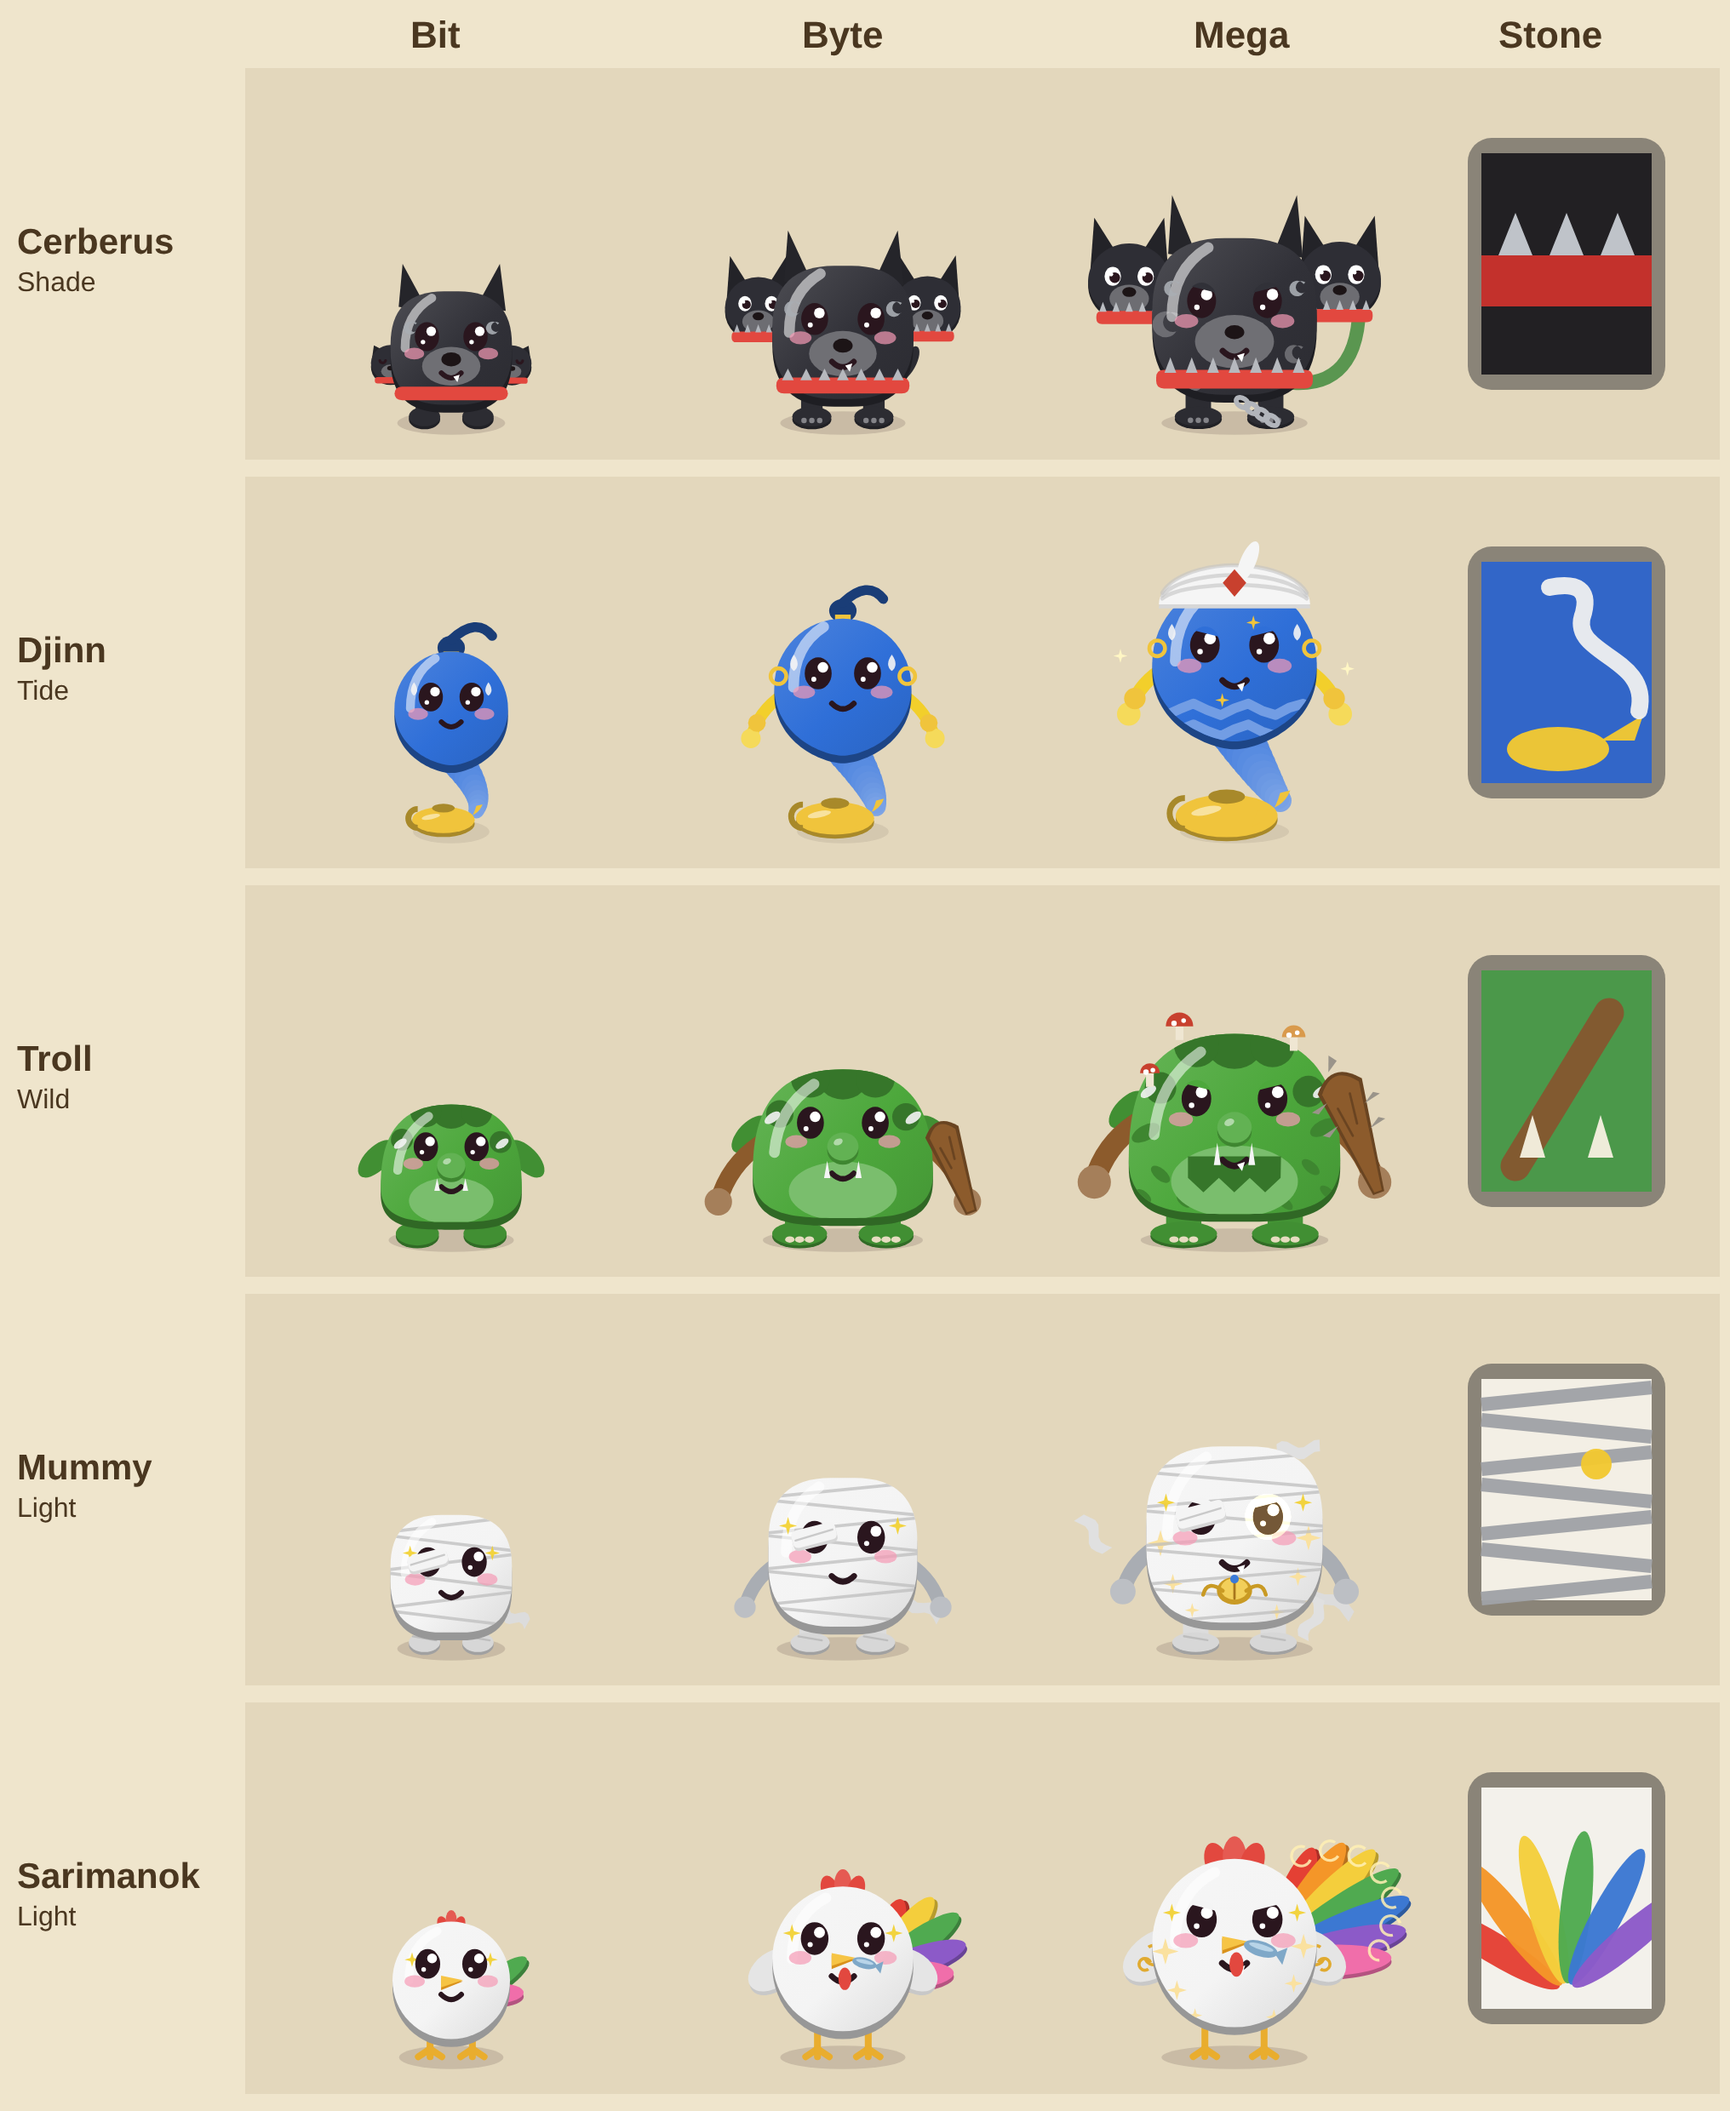
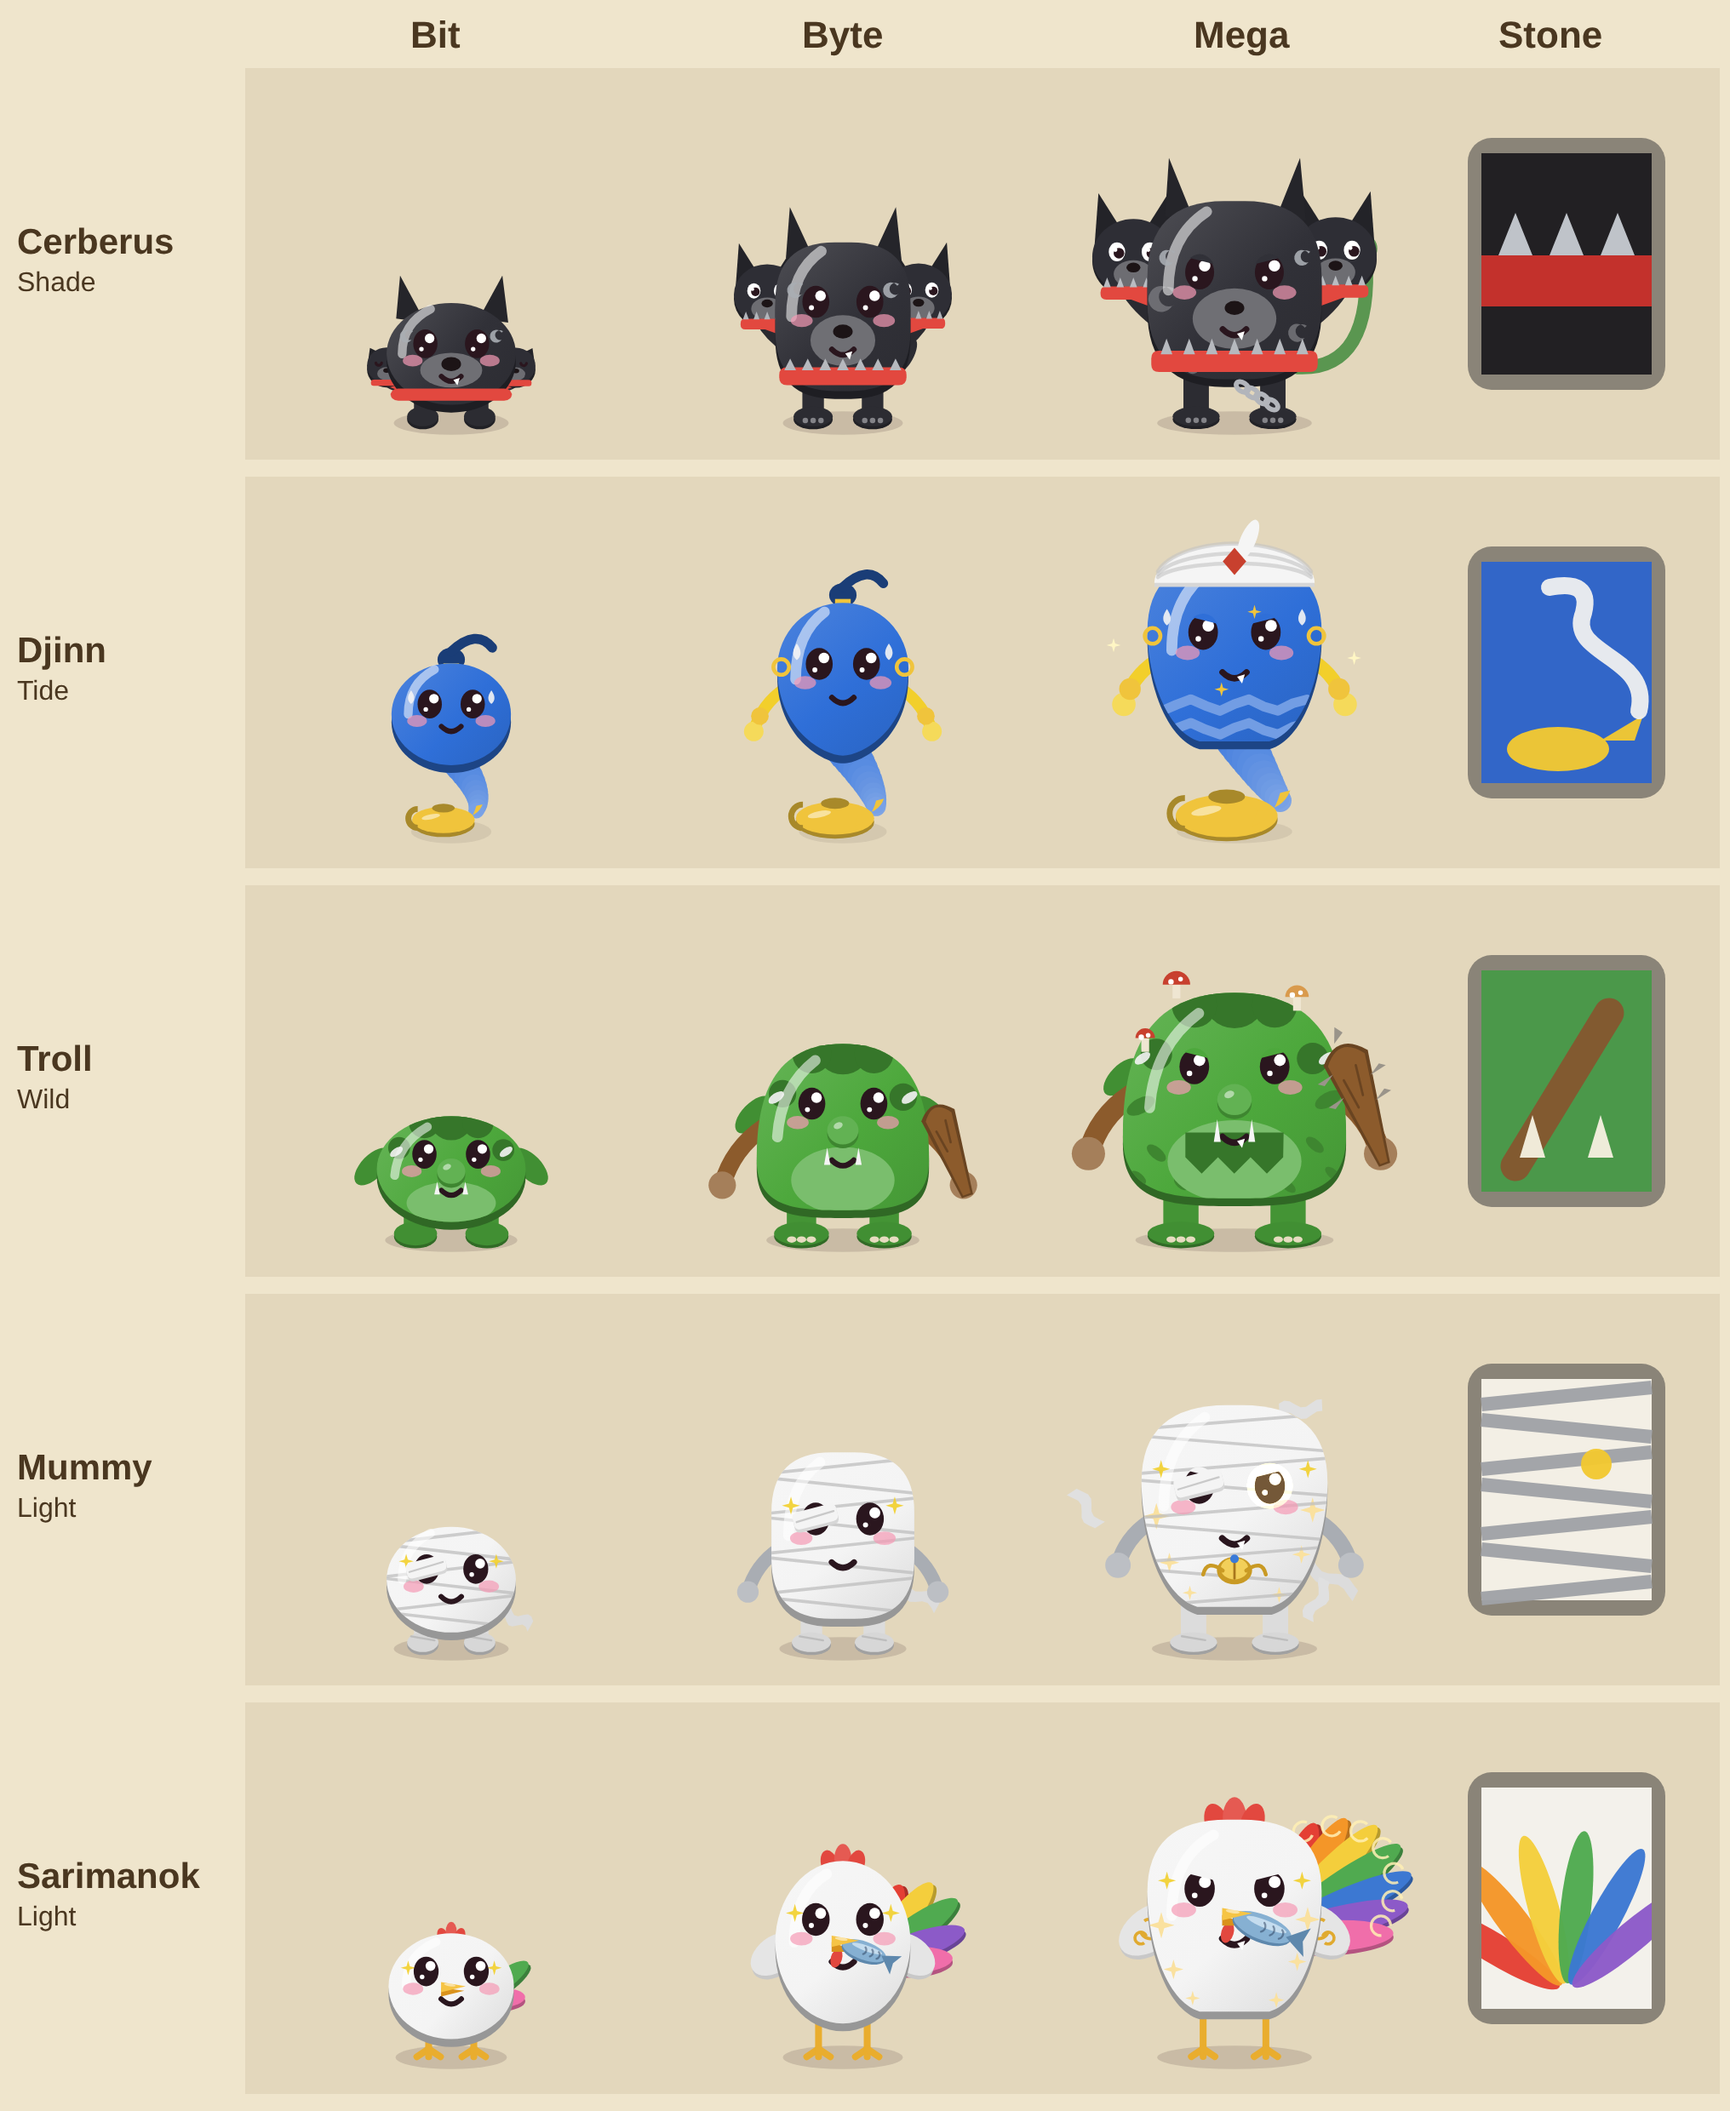
Give all 30 specials a growth in body shape, neck the Cerberus heads, and put Sarimanok's fish in its beak
Gid asked for better evolution looks on every special, with the body shape changing too:
a Bit is a round baby, a Byte is taller on longer legs, and a Mega is broad at the shoulders and
narrower at the base. A family whose own shape is its idea (Jack, Kraken, Naga, Hydra, Bakunawa,
Yeti, the round Tanuki, the four-legged ones, Diwata's bud) keeps that shape and still changes
proportion, and Salamander stays low. Cerberus's side heads sit on necks from its shoulders, and
Sarimanok's fish now hangs out of an open beak with its head between the jaws.

Sheets: docs/art/specials-group1.png to group4.png and specials-original10.png.

Claude-Session: https://claude.ai/code/session_01MQWzxVrGaM5SWzbnobBWB8

diff --git a/prototype/chibi.js b/prototype/chibi.js
@@ -1980,7 +1980,9 @@ const CHIBI = (() => {
           limb(c, tq, 7, [90, 150, 80], x.L.tail, x.t); c.fillStyle = 'rgb(90,150,80)'; c.beginPath(); c.ellipse(tq[4], tq[5] - 3, 6, 7, 0, 0, 7); c.fill(); c.fillStyle = '#fff'; c.beginPath(); c.arc(tq[4] - 2, tq[5] - 5, 1.6, 0, 7); c.arc(tq[4] + 2, tq[5] - 5, 1.6, 0, 7); c.fill();
           c.strokeStyle = '#d23a3a'; c.lineWidth = 1.4; c.beginPath(); c.moveTo(tq[4], tq[5] + 3); c.lineTo(tq[4], tq[5] + 7); c.lineTo(tq[4] - 2, tq[5] + 9); c.moveTo(tq[4], tq[5] + 7); c.lineTo(tq[4] + 2, tq[5] + 9); c.stroke(); }
         else { const tw = Math.sin(x.t / 200) * 0.3; c.save(); c.translate(g.cx + g.bw * 0.4, g.bot - 10); c.rotate(-0.8 + tw); c.fillStyle = rgb(dk(x.body, 0.1)); c.beginPath(); c.ellipse(9, 0, 10, 4, 0, 0, 7); c.fill(); c.restore(); }   // a wagging tail
-        const hr = by(S, 10, 17, 21), dx = g.bw * by(S, 0.5, 0.6, 0.64), dy = by(S, 0.62, 0.3, 0.26);   // the side heads
+        const hr = by(S, 10, 17, 21), dx = g.bw * by(S, 0.5, 0.56, 0.58), dy = by(S, 0.6, 0.34, 0.3);   // the side heads, each on a thick neck from the shoulder
+        for (const sd of [-1, 1]) { const hx = g.cx + sd * dx, hy = g.top + g.bh * dy; limb(c, [g.cx + sd * g.bw * 0.22, g.top + g.bh * 0.7, g.cx + sd * dx * 0.9, g.top + g.bh * (dy + 0.25), hx, hy + hr * 0.2], hr * 1.15, dk(x.body, 0.14), sd < 0 ? x.L.armL : x.L.armR, x.t);
+          c.fillStyle = rgb(x.parts); c.save(); c.translate(hx, hy + hr * 0.95); c.rotate(-sd * 0.35); roundBox(c, -hr * 0.62, -hr * 0.14, hr * 1.24, hr * 0.3, hr * 0.12); c.fill(); c.restore(); }
         for (const sd of [-1, 1]) this.dog(c, g.cx + sd * dx, g.top + g.bh * dy + Math.sin(x.t / 600 + sd) * 1.5, hr, dk(x.body, 0.06), red, stud, S !== 'Bit', look, x.t);
         for (const sd of [-1, 1]) { const fx = g.cx + sd * g.bw * 0.22, lift = Math.max(0, sd * x.walk) * 4; limb(c, [fx, g.bot - 8, fx, g.bot - 1 - lift / 2, fx, 180 - lift], by(S, 9, 11, 13), dk(x.body, 0.1), sd < 0 ? x.L.legL : x.L.legR, x.t);
           blob(c, fx, 182 - lift, by(S, 8, 10, 12), 5, dk(x.body, 0.1), sd < 0 ? x.L.legL : x.L.legR, x.t, 'foot'); x.feet.push([fx, 182 - lift, 8]);
@@ -2106,12 +2108,15 @@ const CHIBI = (() => {
       head: g => [g.cx, g.top - 6, g.bw * 0.42],
       face(c, g, x, look) { const S = g.stage, fi = faceTwo(c, g, x, look, { ey: 0.36, ex: 0.2, my: 0.62, s: by(S, 0.74, 0.82, 0.9) }), s = fi.s, y0 = g.top + g.bh * 0.46;
         if (x.back) return fi;
-        if (S !== 'Bit') { c.fillStyle = rgb(x.parts); c.beginPath(); c.ellipse(g.cx + 1, y0 + 16 * s, 4 * s, 7 * s, 0, 0, 7); c.fill(); }   // the wattle
-        c.fillStyle = '#d9921c'; c.beginPath(); c.moveTo(g.cx - 7 * s, y0 + 1); c.lineTo(g.cx + 8 * s, y0 + 4 * s); c.lineTo(g.cx - 7 * s, y0 + 10 * s); c.closePath(); c.fill();   // the beak
-        c.fillStyle = '#f6c445'; c.beginPath(); c.moveTo(g.cx - 7 * s, y0); c.lineTo(g.cx + 8 * s, y0 + 3 * s); c.lineTo(g.cx - 7 * s, y0 + 8 * s); c.closePath(); c.fill();
-        if (S !== 'Bit') { const fx = g.cx + 8 * s, fy = y0 + 5 * s, fl = by(S, 0, 14, 18) * s, sw = Math.sin(x.t / 150) * 0.15;   // a fish in its beak
-          c.save(); c.translate(fx, fy); c.rotate(0.15 + sw); c.fillStyle = '#7fa8c8'; c.beginPath(); c.ellipse(fl * 0.4, 0, fl * 0.55, fl * 0.24, 0, 0, 7); c.fill();
-          c.beginPath(); c.moveTo(fl * 0.85, 0); c.lineTo(fl * 1.2, -fl * 0.28); c.lineTo(fl * 1.2, fl * 0.28); c.closePath(); c.fill(); c.fillStyle = '#b8d4e8'; c.beginPath(); c.ellipse(fl * 0.4, -fl * 0.06, fl * 0.4, fl * 0.09, 0, 0, 7); c.fill(); c.restore(); }
+        if (S !== 'Bit') { c.fillStyle = rgb(x.parts); c.beginPath(); c.ellipse(g.cx - 4 * s, y0 + 14 * s, 3.5 * s, 6 * s, 0.3, 0, 7); c.fill(); }   // the wattle
+        const fish = S !== 'Bit', gape = fish ? 4 * s : 0;
+        c.fillStyle = '#d9921c'; c.beginPath(); c.moveTo(g.cx - 7 * s, y0 + 4 * s); c.lineTo(g.cx + 9 * s, y0 + 6 * s + gape); c.lineTo(g.cx - 7 * s, y0 + 10 * s); c.closePath(); c.fill();   // the lower beak, dropped open when it holds a fish
+        if (fish) { const fl = by(S, 0, 26, 32) * s, sw = Math.sin(x.t / 150) * 0.1;   // the fish: its head between the jaws, its body and tail hanging out and flapping
+          c.save(); c.translate(g.cx + 1 * s, y0 + 5 * s); c.rotate(0.28 + sw); c.fillStyle = '#5e88ad'; c.beginPath(); c.ellipse(fl * 0.5, 1, fl * 0.55, fl * 0.24, 0, 0, 7); c.fill(); c.fillStyle = '#86b0d2'; c.beginPath(); c.ellipse(fl * 0.5, 0, fl * 0.55, fl * 0.22, 0, 0, 7); c.fill();
+          c.fillStyle = '#5e88ad'; c.save(); c.translate(fl * 1.02, 0); c.rotate(Math.sin(x.t / 120) * 0.35); c.beginPath(); c.moveTo(-2, 0); c.lineTo(fl * 0.32, -fl * 0.26); c.lineTo(fl * 0.24, 0); c.lineTo(fl * 0.32, fl * 0.26); c.closePath(); c.fill(); c.restore();
+          c.fillStyle = '#c4dcee'; c.beginPath(); c.ellipse(fl * 0.55, -fl * 0.07, fl * 0.38, fl * 0.07, 0, 0, 7); c.fill(); c.strokeStyle = 'rgba(40,60,90,.5)'; c.lineWidth = 1; for (const k of [0.45, 0.62, 0.79]) { c.beginPath(); c.arc(fl * k, 0, fl * 0.1, -1, 1); c.stroke(); } c.restore(); }
+        c.fillStyle = '#f6c445'; c.beginPath(); c.moveTo(g.cx - 7 * s, y0); c.lineTo(g.cx + 10 * s, y0 + 3 * s); c.lineTo(g.cx - 7 * s, y0 + 7 * s); c.closePath(); c.fill();   // the upper beak, over the fish
+        c.fillStyle = 'rgba(255,255,255,.5)'; c.beginPath(); c.ellipse(g.cx - 1 * s, y0 + 2 * s, 4 * s, 1 * s, 0.15, 0, 7); c.fill();
         return fi; }
     },
 
@@ -2277,6 +2282,23 @@ const CHIBI = (() => {
 
   /* ---------- fusion hybrids: the first family's body on the second family's legs ----------
      Chomp is drawn by its own function, so a Chomp body or Chomp feet use this stand-in built from STAGE. */
+  /* ---------- how the specials grow (Gid, 16 Nov 2026): a Bit is a round baby, a Byte is taller on longer legs,
+     and a Mega takes a grown-up build, broad at the shoulders and narrower at the base. A family whose own shape is
+     the point (a pumpkin, a mantle, a hood, coils, a round belly, four legs) keeps that shape and still changes proportion ---------- */
+  const EVO_K = { Bit: [1.06, 0.9], Byte: [0.96, 1.12], Mega: [1.06, 1.14] }, EVO_LEG = { Bit: 0, Byte: 4, Mega: 8 };
+  function evoRound(c, g) { c.beginPath(); c.ellipse(g.cx, g.top + g.bh / 2, g.bw / 2, g.bh / 2, 0, 0, 7); }
+  function evoHero(c, g) { const L = g.left, R = g.left + g.bw, T = g.top, B = g.bot, w = g.bw, nb = w * 0.1, r = w * 0.46;   // broad shoulders, sides drawing in to a narrower base
+    c.beginPath(); c.moveTo(L + r, T); c.lineTo(R - r, T); c.quadraticCurveTo(R, T, R, T + r * 0.9); c.bezierCurveTo(R, T + g.bh * 0.62, R - nb, B - w * 0.06, R - nb - w * 0.2, B);
+    c.lineTo(L + nb + w * 0.2, B); c.bezierCurveTo(L + nb, B - w * 0.06, L, T + g.bh * 0.62, L, T + r * 0.9); c.quadraticCurveTo(L, T, L + r, T); c.closePath(); }
+  const EVO_KEEP = { Jack: 'both', Kraken: 'both', Naga: 'both', Hydra: 'both', Bakunawa: 'both', Yeti: 'both', Golem: 'bit', Tanuki: 'mega', Diwata: 'mega', Unicorn: 'mega', Kirin: 'mega',
+    Sphinx: 'mega', Griffin: 'mega', Cerberus: 'mega', Troll: 'mega', Salamander: 'mega', Mermaid: 'mega' };
+  const EVO_LOW = { Salamander: 1 };   // a lizard stays low to the ground at every stage
+  for (const [n, F] of Object.entries(FAM)) { if (!F.special || F.hybridOf) continue;
+    const D = F.dims; F.dims = {}; for (const st in D) F.dims[st] = [Math.round(D[st][0] * EVO_K[st][0] * (EVO_LOW[n] && st !== 'Bit' ? 1.06 : 1)), Math.round(D[st][1] * (EVO_LOW[n] ? (st === 'Bit' ? 0.94 : 0.96) : EVO_K[st][1]))];
+    if (F.ll) { const l0 = F.ll; F.ll = st => l0(st) + EVO_LEG[st]; }
+    const keep = EVO_KEEP[n], p0 = F.path;
+    F.path = function (c, g, x) { if (g.stage === 'Bit' && keep !== 'both' && keep !== 'bit') return evoRound(c, g); if (g.stage === 'Mega' && keep !== 'both' && keep !== 'mega') return evoHero(c, g); return p0.call(this, c, g, x); }; }
+
   const CHOMP_F = {
     dims: { Bit: [STAGE.Bit.bw, STAGE.Bit.bh], Byte: [STAGE.Byte.bw, STAGE.Byte.bh], Mega: [STAGE.Mega.bw, STAGE.Mega.bh] },
     bottom() { return 174; }, height(st) { return STAGE[st].bh + 18; },
